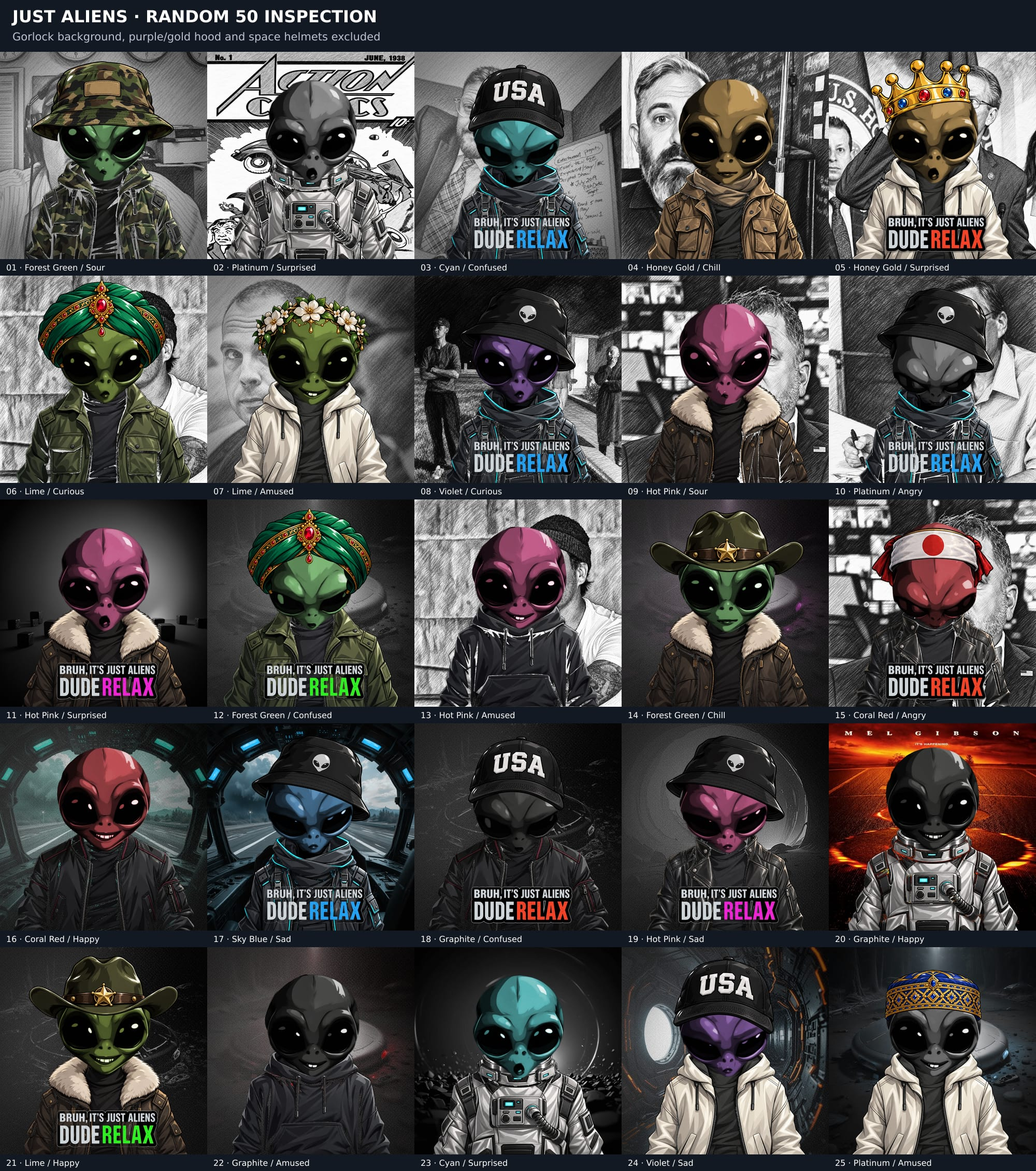
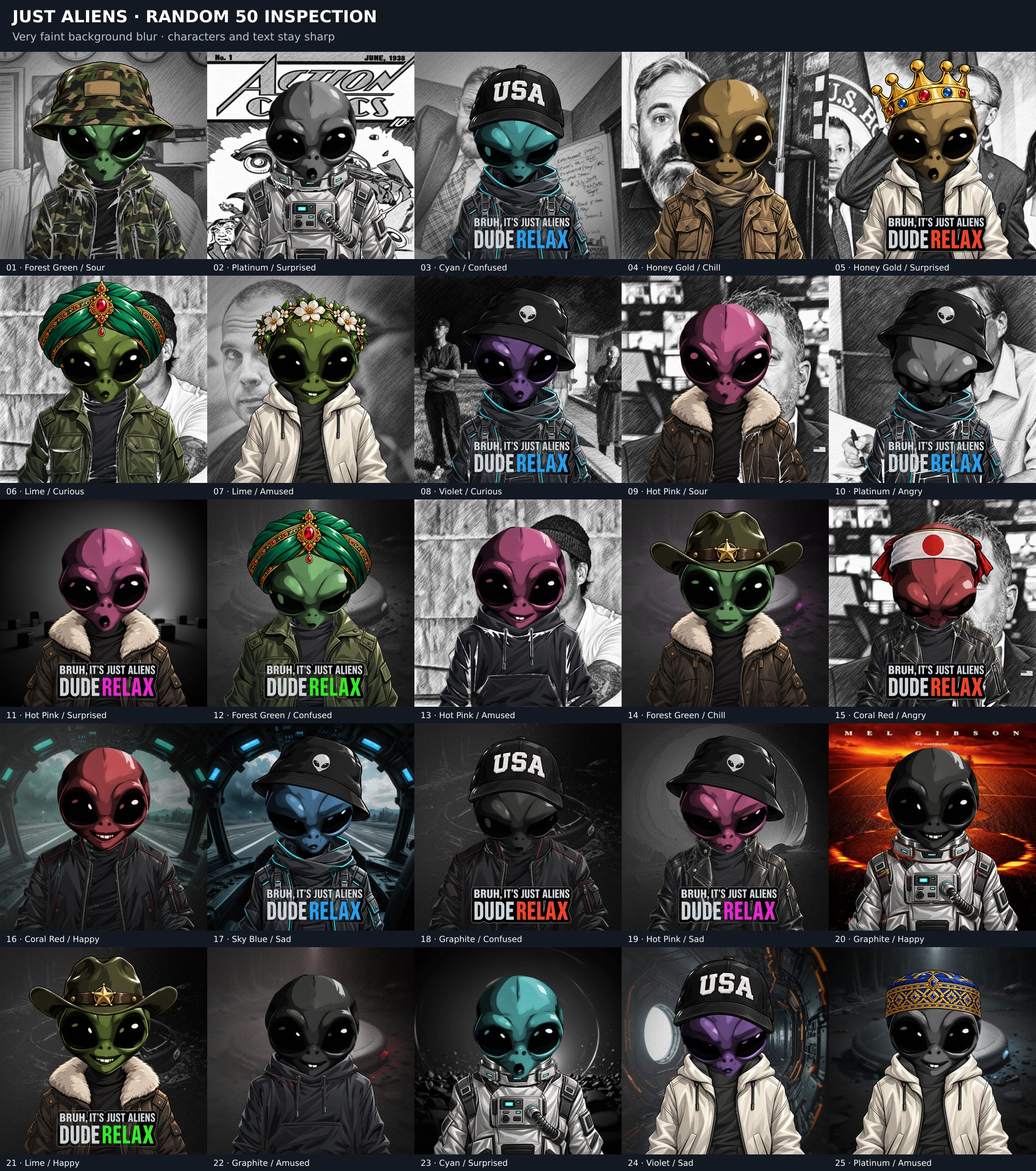
Apply faint background-only blur and refresh same 50 inspection combinations

Changed region(s): [[0.434, 0.1239, 0.465, 0.1549], [0.372, 0.1549, 0.403, 0.1858]]

diff --git a/generate_collection.js b/generate_collection.js
@@ -40,7 +40,7 @@ const SUPPLY = 1000;
 const SEED = 'just-aliens-1k';
 const RARE_SHARE = 0.0357;
 const TEXT_SHARE = 0.5;
-const BACKGROUND_BLUR_SIGMA = 3;
+const { backgroundBlurSigma: BACKGROUND_BLUR_SIGMA } = require('./scripts/background-style.cjs');
 const WEBP = { quality: 90, effort: 6, smartSubsample: true };
 
 // Pairing rules, so every combination looks intentional (each was checked
